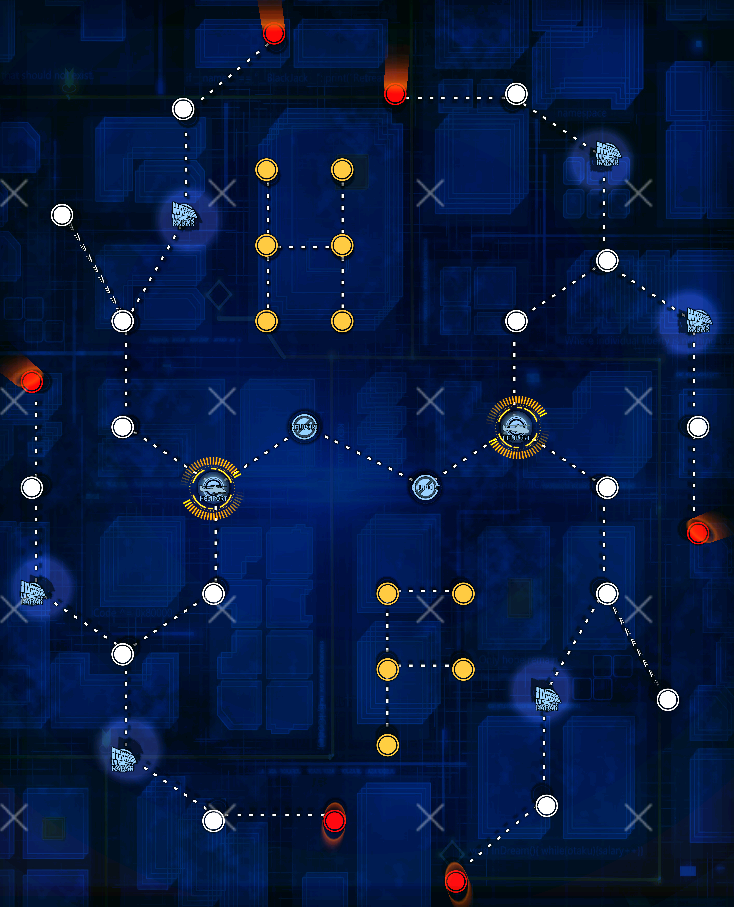
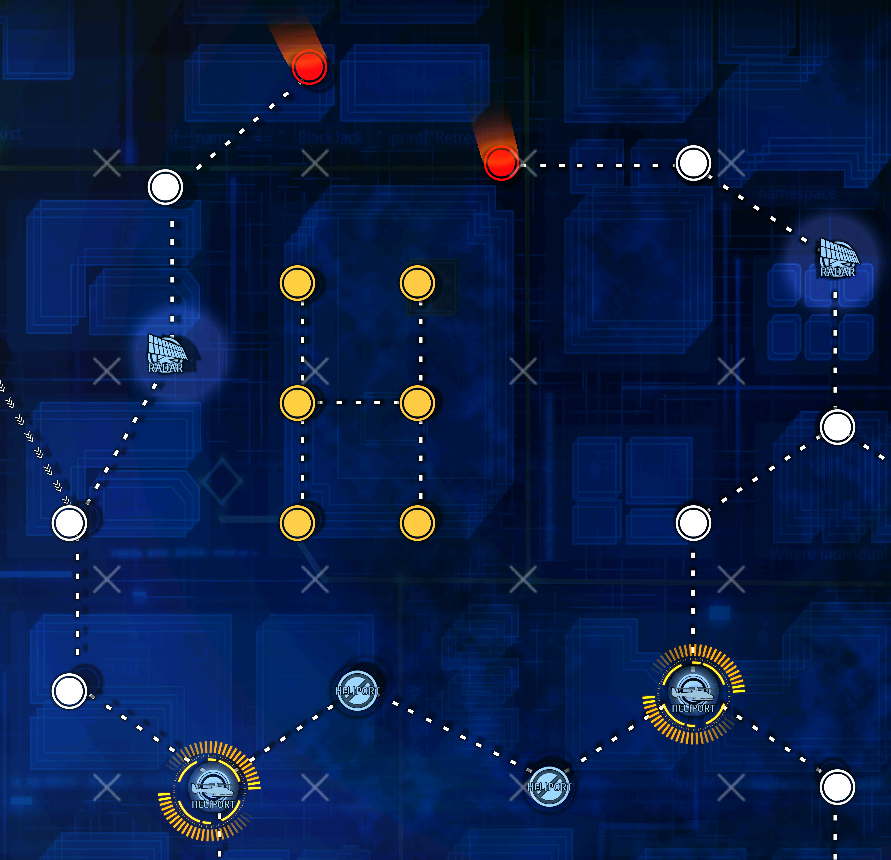
EventPhotoInfinity.kt: Lower scope of map

diff --git a/src/main/kotlin/com/waicool20/wai2k/script/modules/combat/maps/EventPhotoInfinity.kt b/src/main/kotlin/com/waicool20/wai2k/script/modules/combat/maps/EventPhotoInfinity.kt
@@ -53,22 +53,45 @@ class EventPhotoInfinity(scriptComponent: ScriptComponent) : HomographyMapRunner
         region.subRegion(1832, 590, 230, 108).click() // Confirm Start Button
     }
 
+    override suspend fun resetView() {
+        // Map not at full zoom because small nodes were causing problems
+
+        // Out to max zoom
+        logger.info("Zoom out")
+        repeat(2) {
+            region.pinch(
+                Random.nextInt(800, 900),
+                Random.nextInt(300, 400),
+                0.0,
+                500
+            )
+            delay((500 * gameState.delayCoefficient).roundToLong())
+        }
+
+        // In to target zoom
+        logger.info("Zoom in")
+        region.pinch(
+            Random.nextInt(360, 380),
+            Random.nextInt(415, 430),
+            0.0,
+            500
+        )
+        delay((500 * gameState.delayCoefficient).roundToLong())
+
+        // move area of interest closer to middle
+        logger.info("Pan up")
+        val r = region.subRegionAs<AndroidRegion>(1058, 224, 100, 22)
+        r.swipeTo(r.copy(y = r.y + 400))
+        delay((500 * gameState.delayCoefficient).roundToLong())
+        mapH = null
+    }
+
 
     override suspend fun begin() {
         region.waitHas(FileTemplate("combat/battle/start.png"), 8000)
 
         if (gameState.requiresMapInit) {
-            logger.info("Zoom out")
-            repeat(2) {
-                region.pinch(
-                    Random.nextInt(800, 900),
-                    Random.nextInt(300, 400),
-                    0.0,
-                    500
-                )
-                delay(500)
-            }
-            delay((900 * gameState.delayCoefficient).roundToLong())
+            resetView()
             gameState.requiresMapInit = false
         }
 
